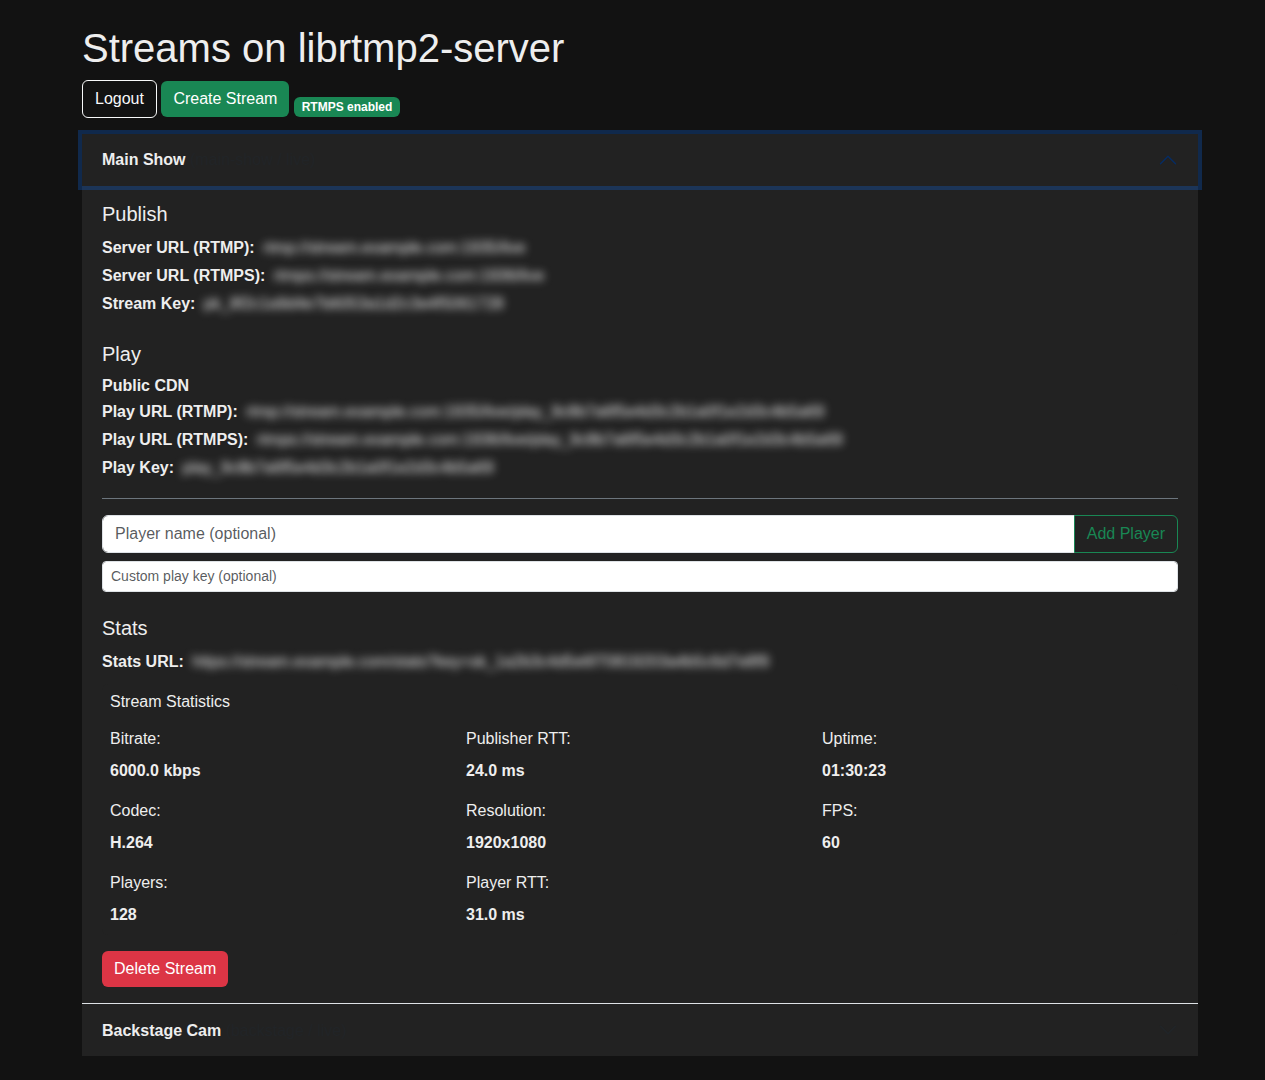
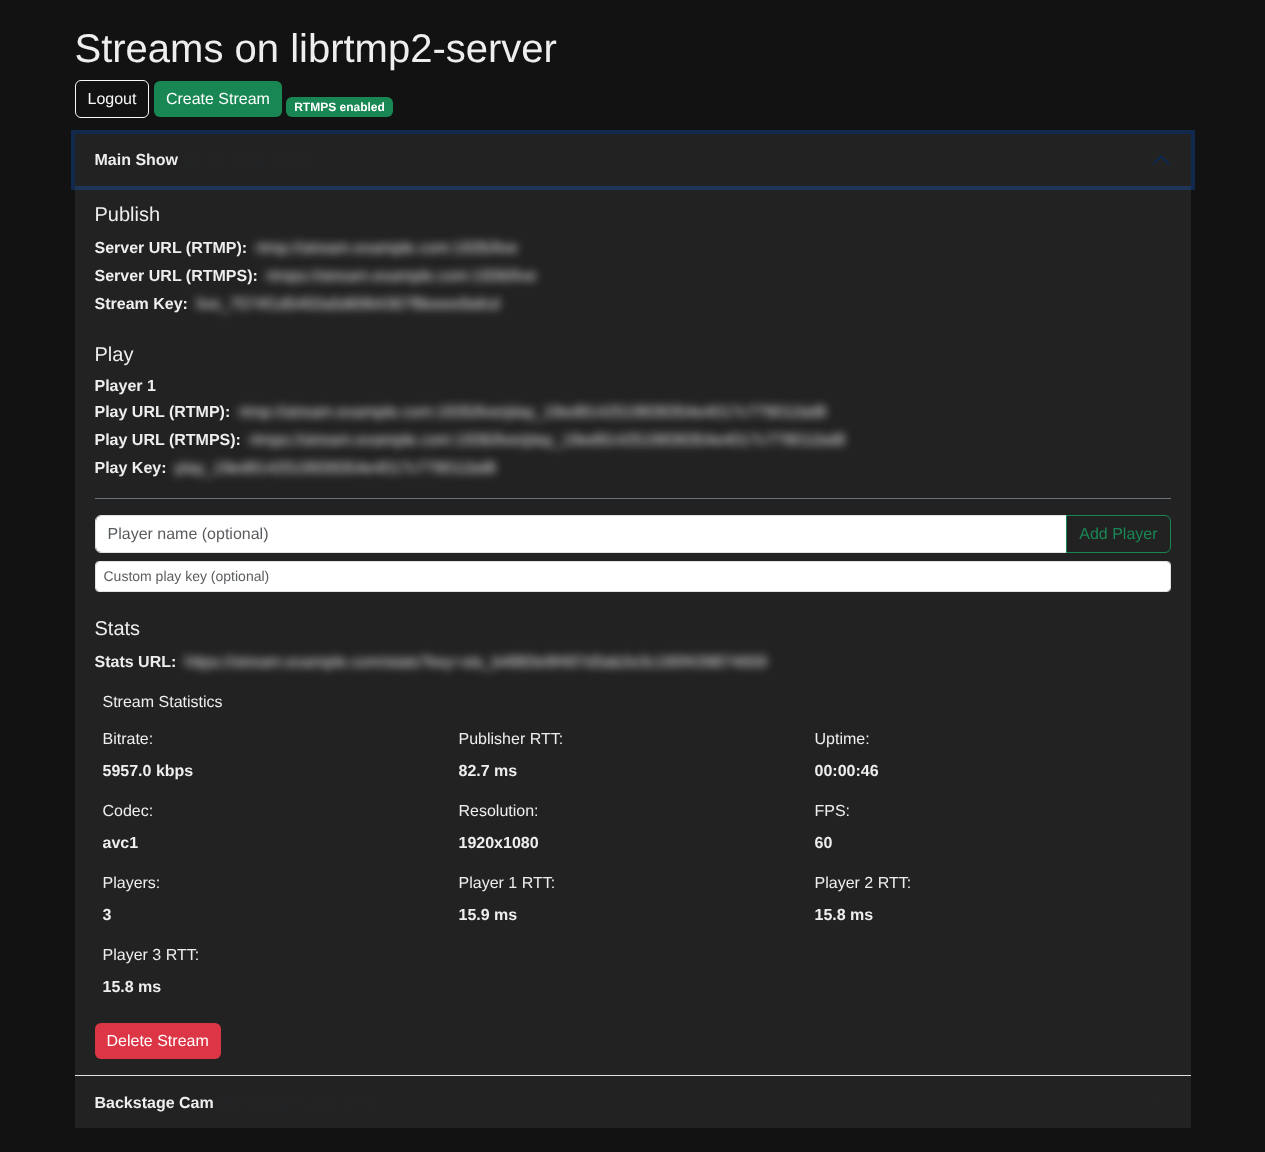
docs: refresh the org profile screenshots from the current server and panel
Claude-Session: https://claude.ai/code/session_01Msfo6ESaqkGVgf45Nhi93N

Changed region(s): [[0.0308, 0.0306, 0.9557, 0.9778], [0.6474, 0.6417, 0.7091, 0.7944]]

diff --git a/profile/README.md b/profile/README.md
@@ -8,14 +8,14 @@ Build with a Rust RTMP/RTMPS and Enhanced RTMP protocol library, or deploy a pri
 <tr>
 <td width="50%">
 
-![librtmp2-server-panel dashboard: a stream expanded showing publish/play URLs and live bitrate, codec, resolution, FPS, RTT and player-count stats](assets/dashboard-demo.png)
+![librtmp2-server-panel dashboard: a stream expanded showing publish/play URLs and live bitrate, codec, resolution, FPS, publisher and per-player RTT and player-count stats](assets/dashboard-demo.png)
 
 *[`librtmp2-server-panel`](https://github.com/OpenRTMP/librtmp2-server-panel) — create a stream, get publish/play URLs and keys, and watch live stats.*
 
 </td>
 <td width="50%">
 
-![librtmp2-server demo: starting the server, then curl against the real HTTP API — health check, creating a stream, and reading its stats](assets/server-demo.png)
+![librtmp2-server demo: starting the server, then curl against the real HTTP API — health check, creating a stream, and reading its stats before and after a publisher connects](assets/server-demo.png)
 
 *[`librtmp2-server`](https://github.com/OpenRTMP/librtmp2-server) — start the server, then drive it with `curl`: health check, create a stream, read its stats.*
 
@@ -23,7 +23,7 @@ Build with a Rust RTMP/RTMPS and Enhanced RTMP protocol library, or deploy a pri
 </tr>
 </table>
 
-Both are real sessions against sample/demo data, from local runs.
+Both are real local sessions against a running librtmp2-server with sample data.
 
 [![Website](https://img.shields.io/badge/website-openrtmp.org-ff5c35)](https://openrtmp.org/)
 [![Status](https://img.shields.io/badge/status-active%20alpha-red)](https://openrtmp.org/)
